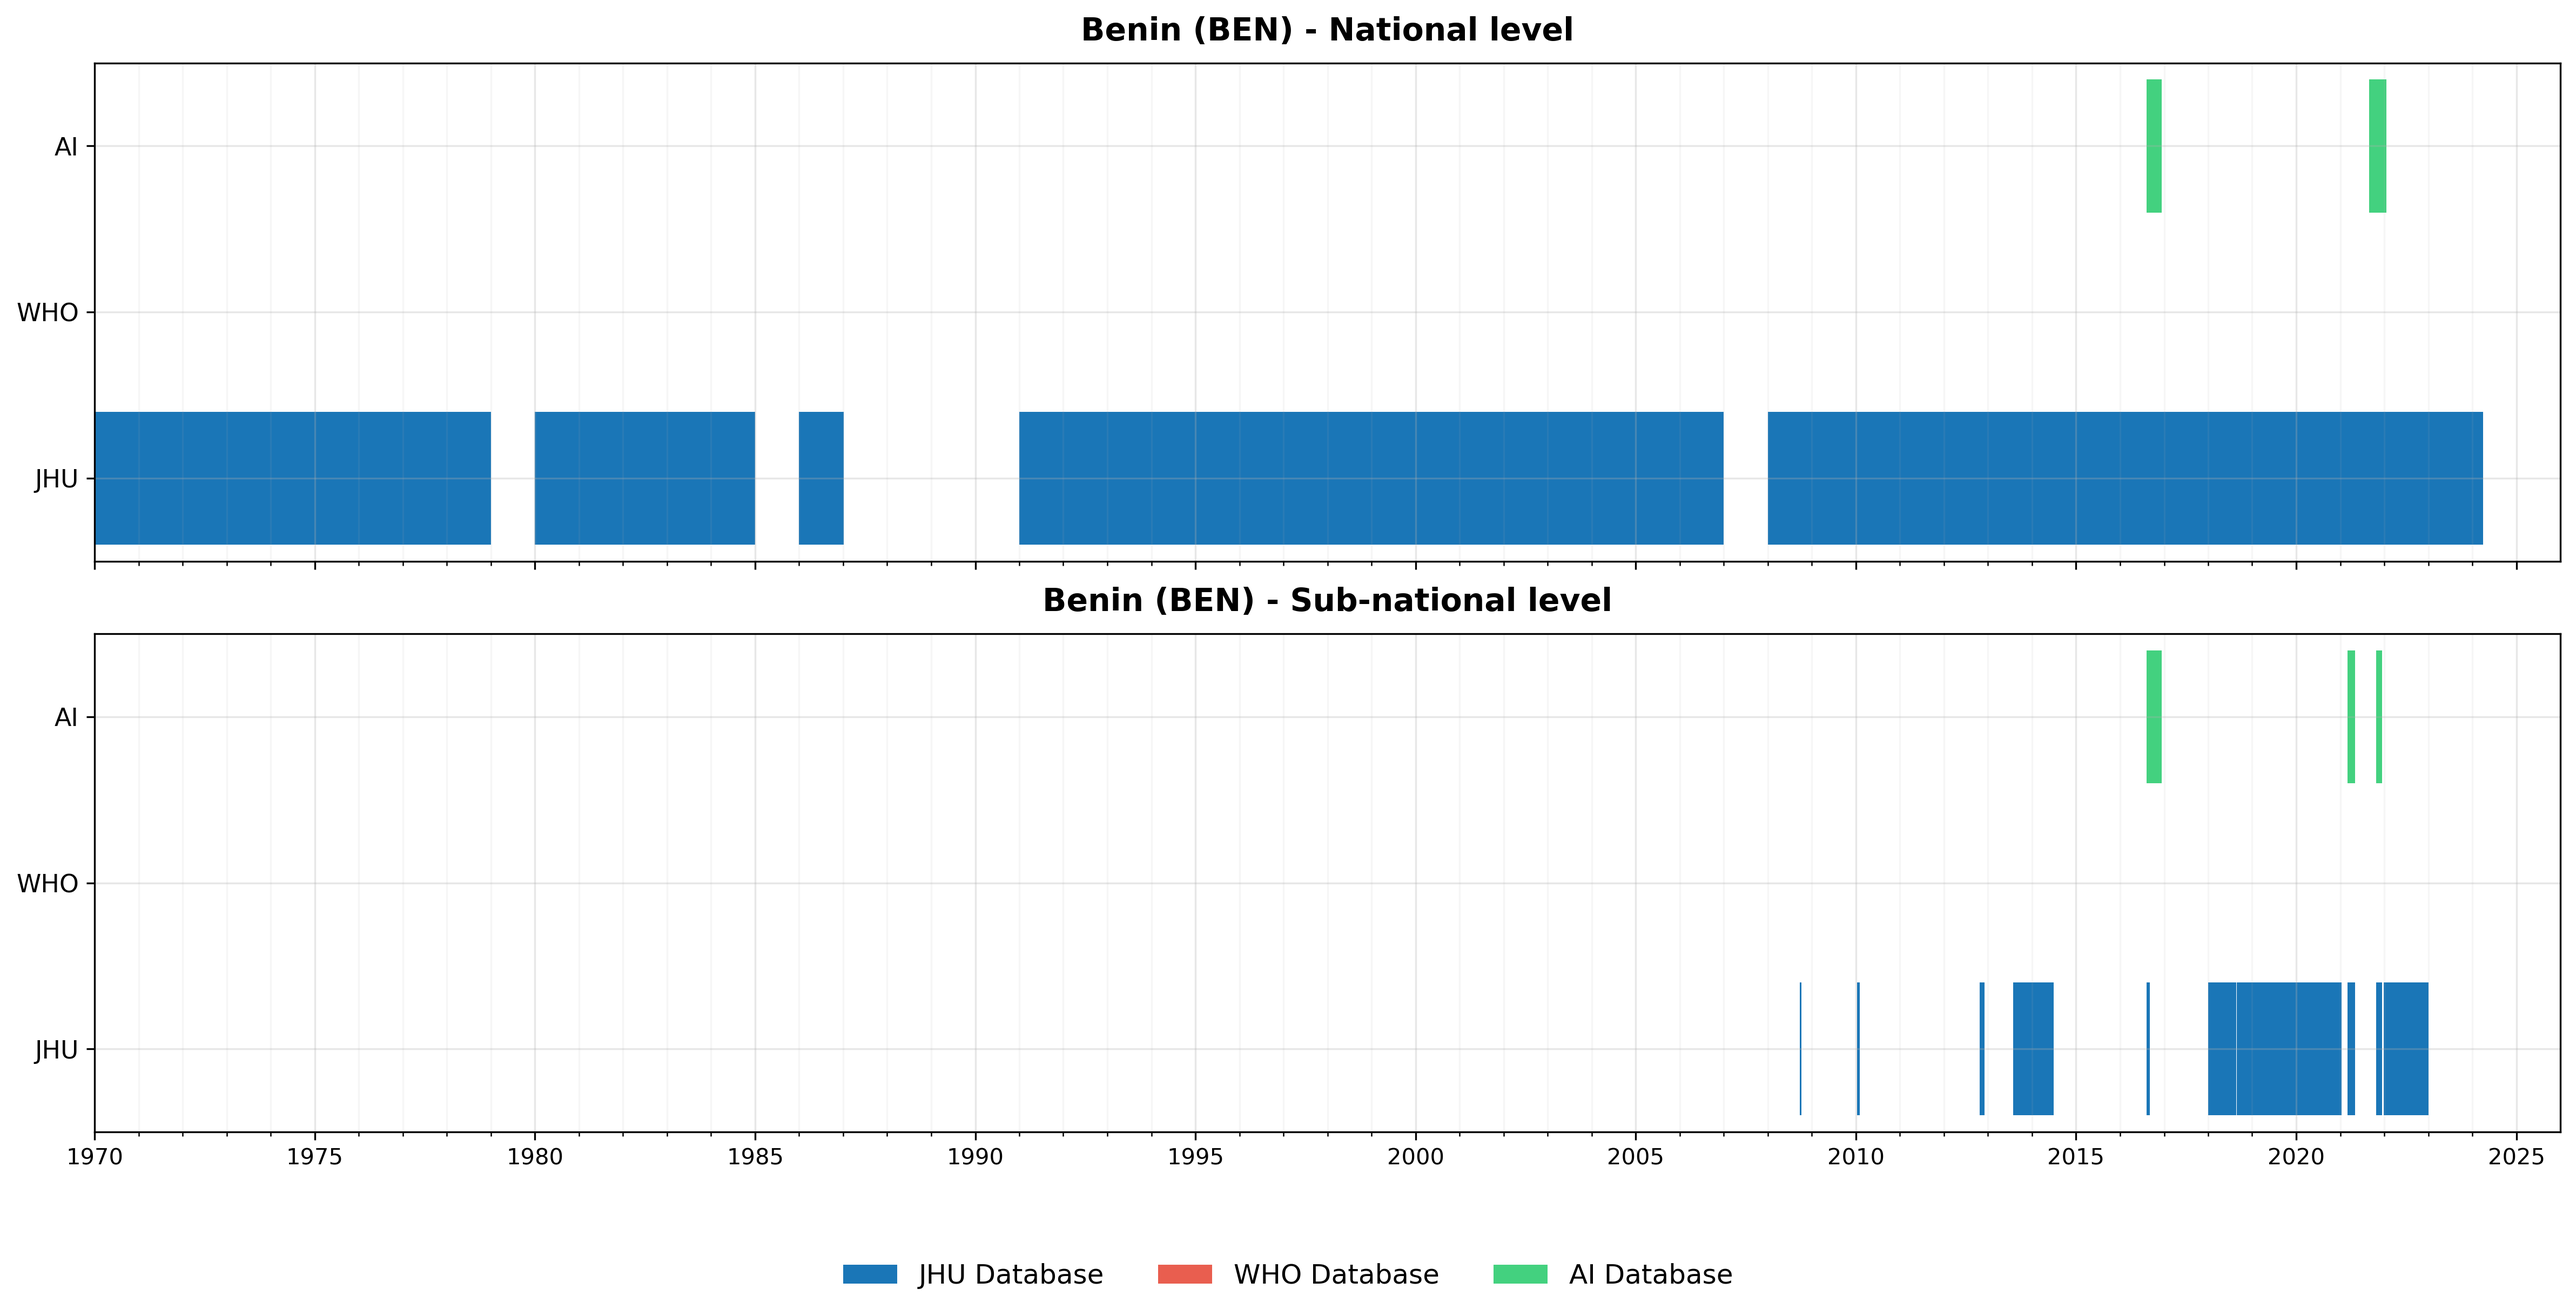
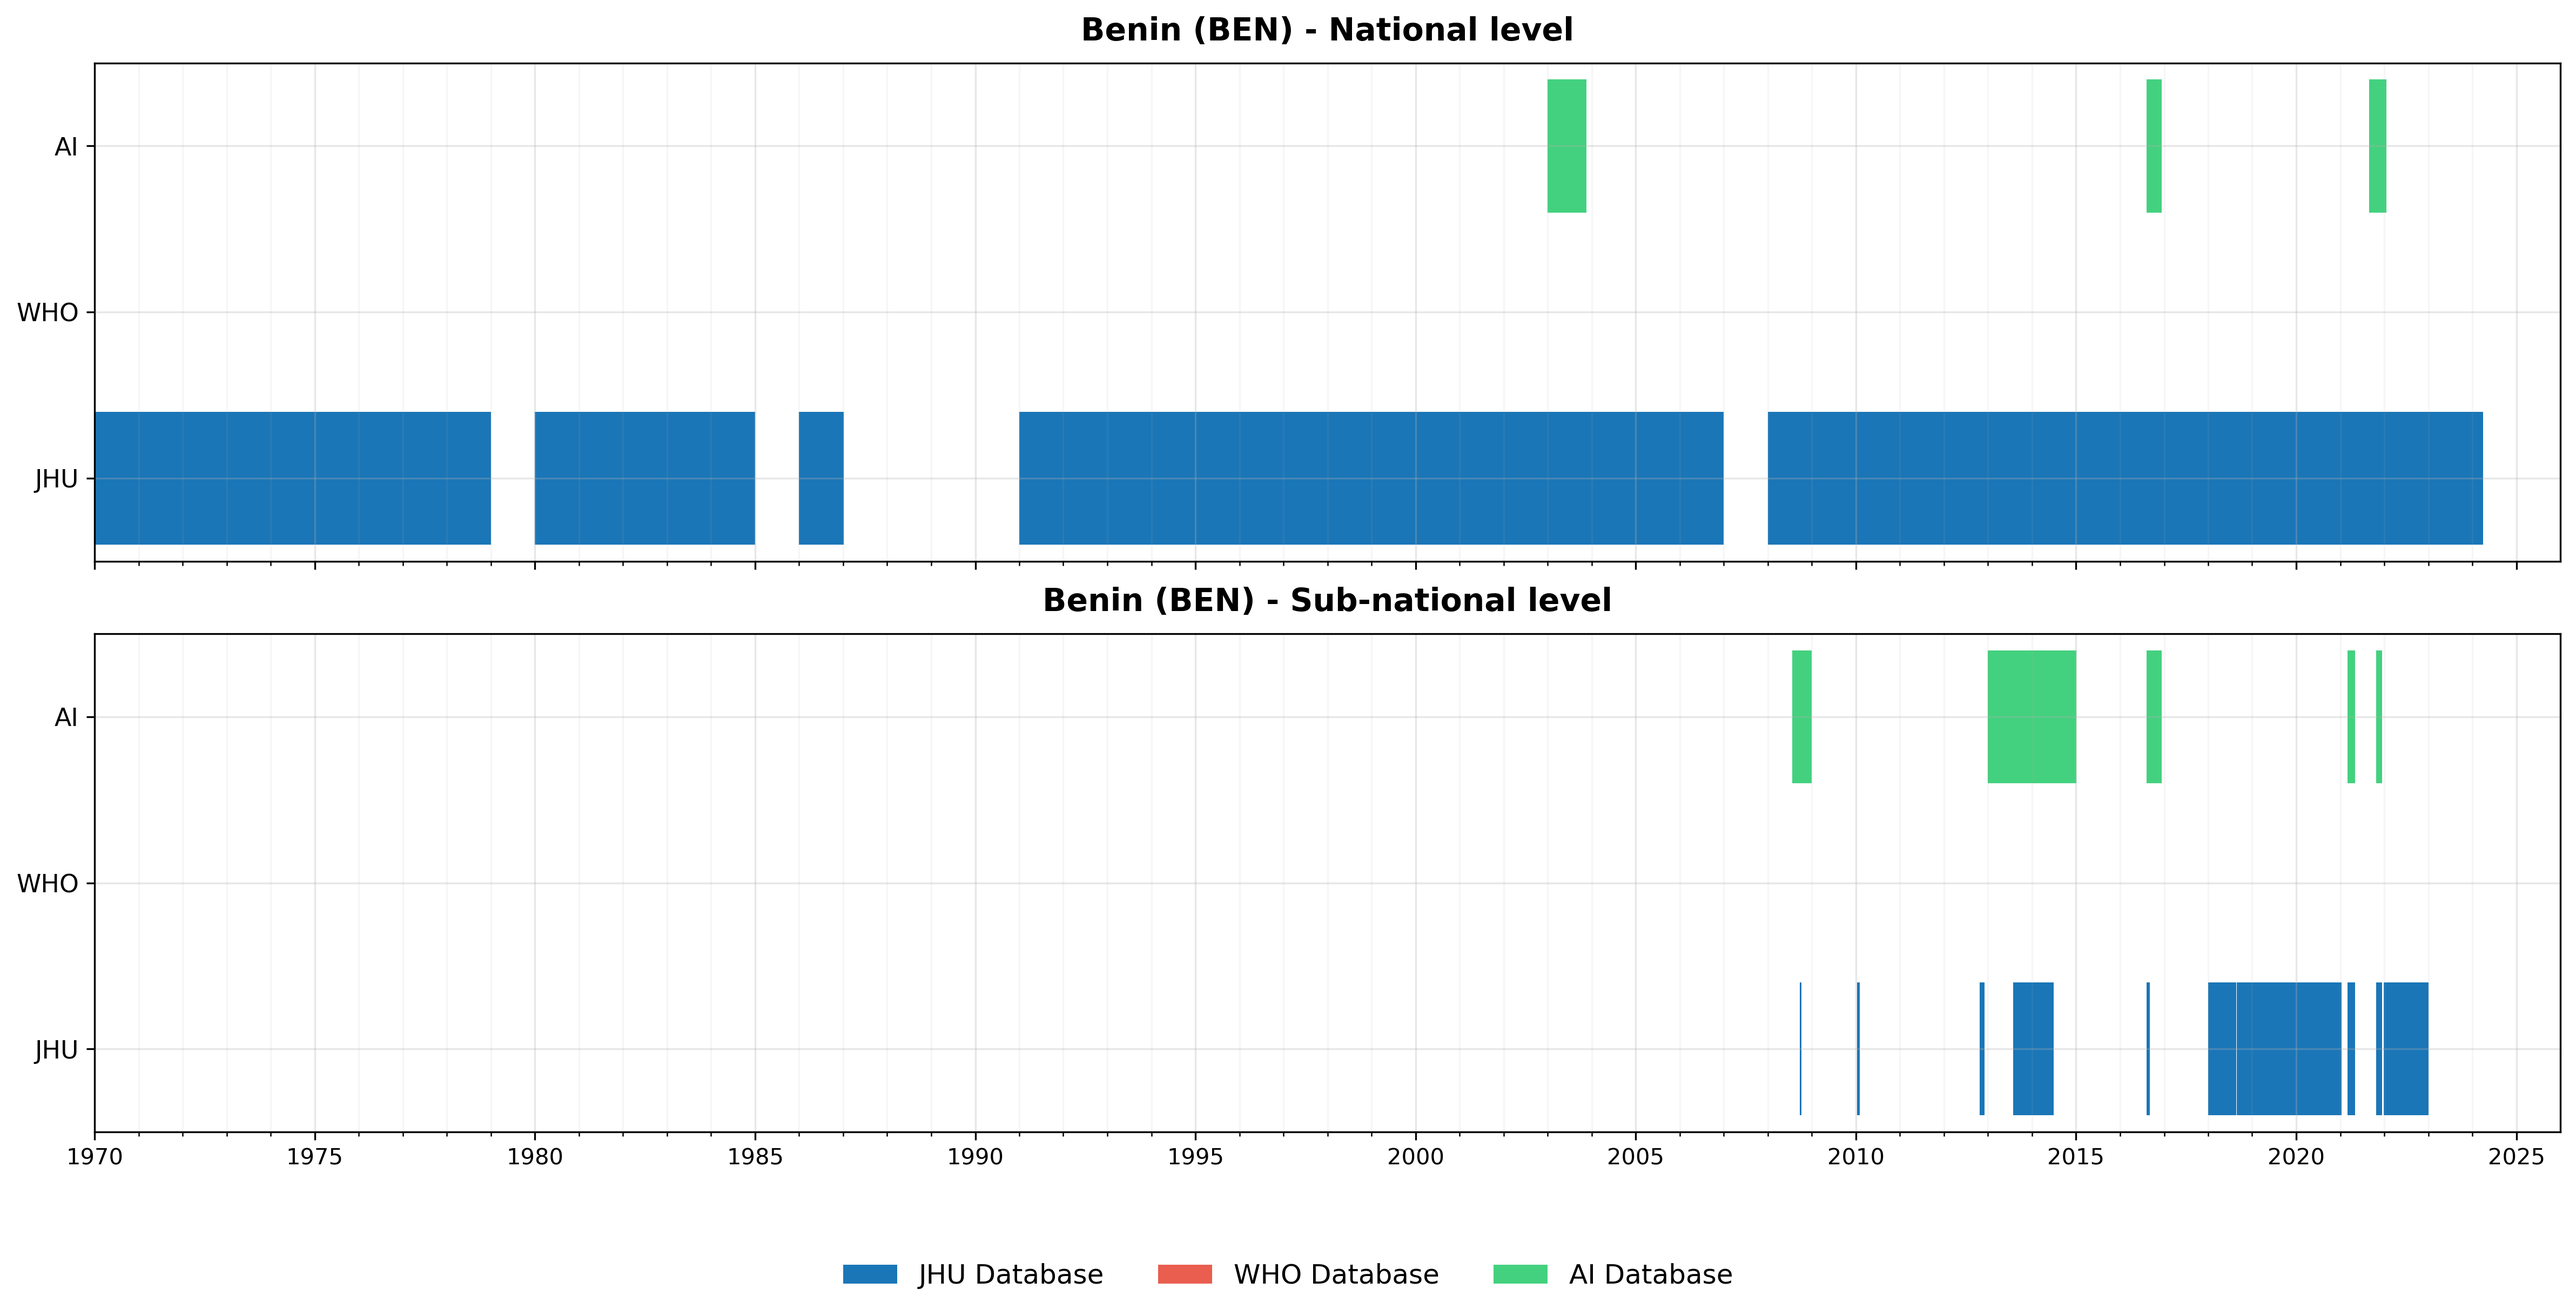
Auto-update dashboard data - 2025-08-02 22:16:53 - Generated with Claude Code

Changed region(s): [[0.7498, 0.4676, 0.8123, 0.5923], [0.6874, 0.4988, 0.7186, 0.5923], [0.5936, 0.0623, 0.6249, 0.1559]]

diff --git a/dashboard/dashboard.html b/dashboard/dashboard.html
@@ -2017,14 +2017,14 @@
                 "iso": "BEN",
                 "status": "PENDING",
                 "datetime": "2025-08-02 22:12:14",
-                "sources": 2,
-                "observations": 10,
-                "date_range": "2016-2022",
+                "sources": 5,
+                "observations": 14,
+                "date_range": "2003-2022",
                 "priority": "HIGH",
                 "execution_time": 0,
                 "queries": 0,
                 "yield_pct": 0.0,
-                "notes": "Agent 1 completed; 10 AI data observations; Setup incomplete"
+                "notes": "Agent 1 completed; 14 AI data observations; Setup incomplete | Manual: Agent 1 completed; 10 AI data observations; Setup incomplete"
         },
         {
                 "country": "Burkina Faso",
